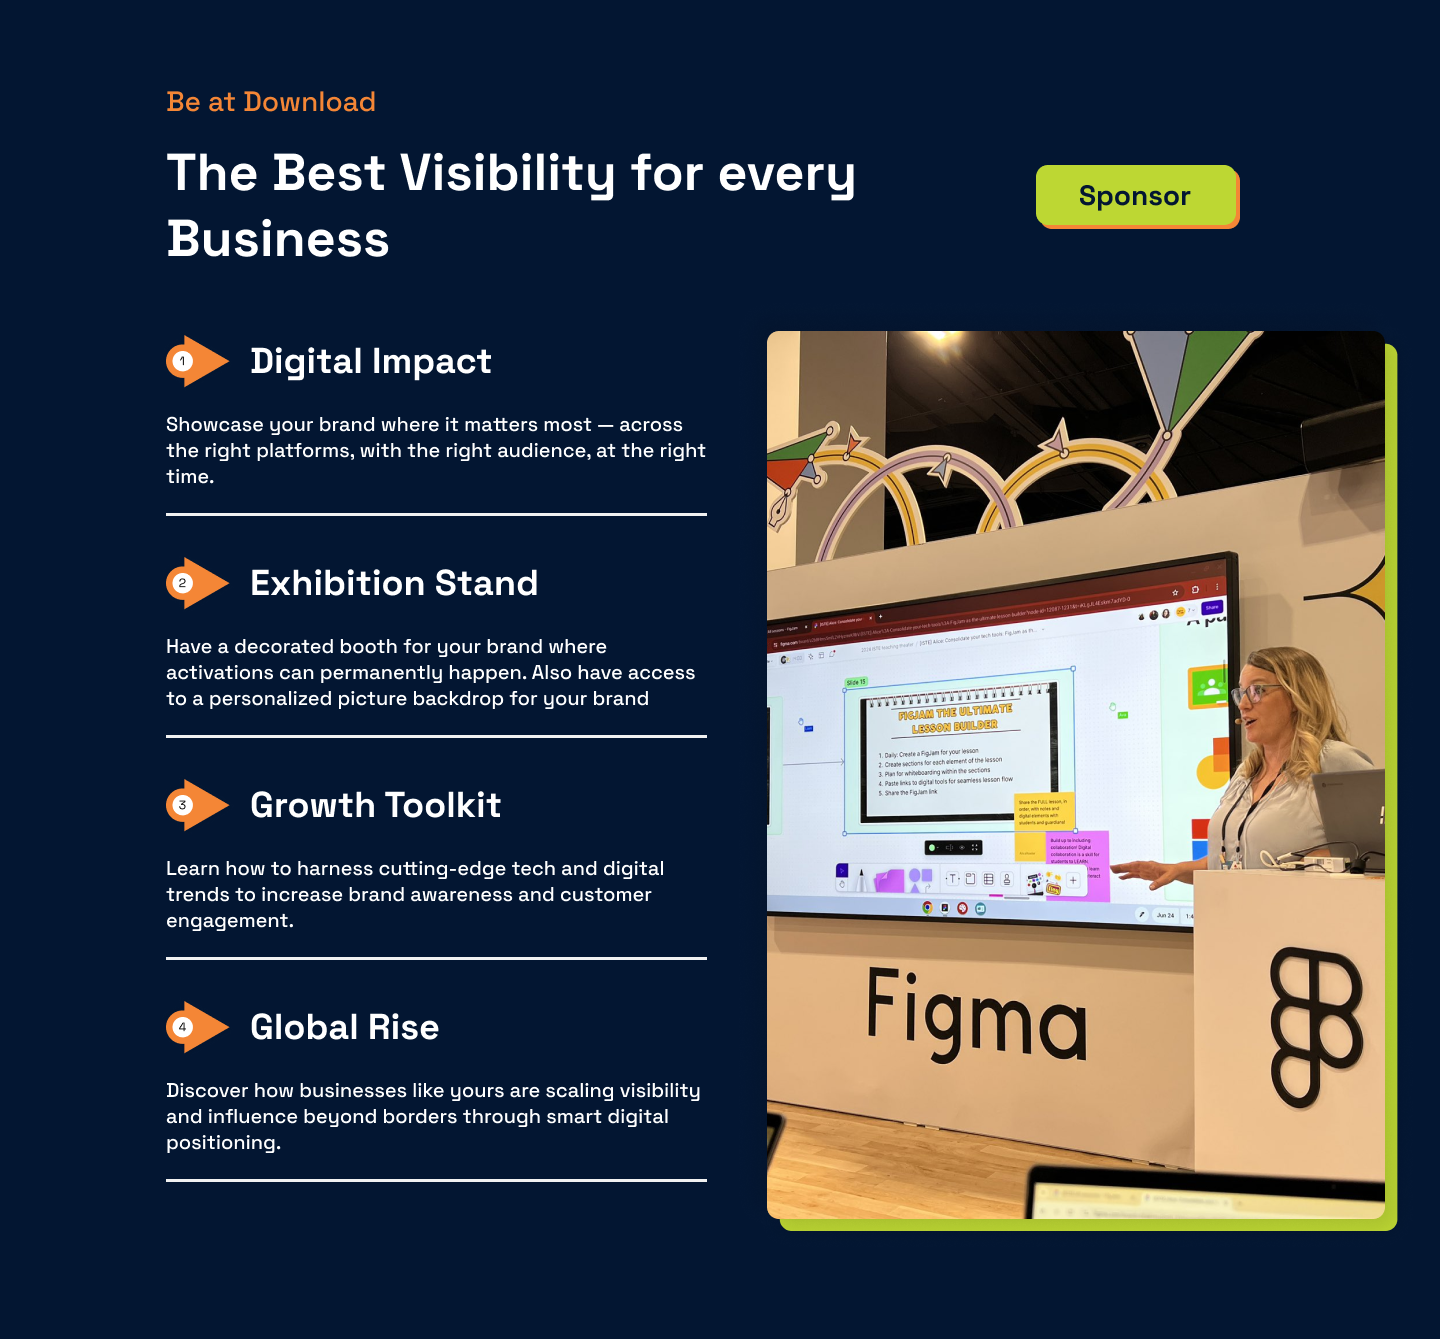
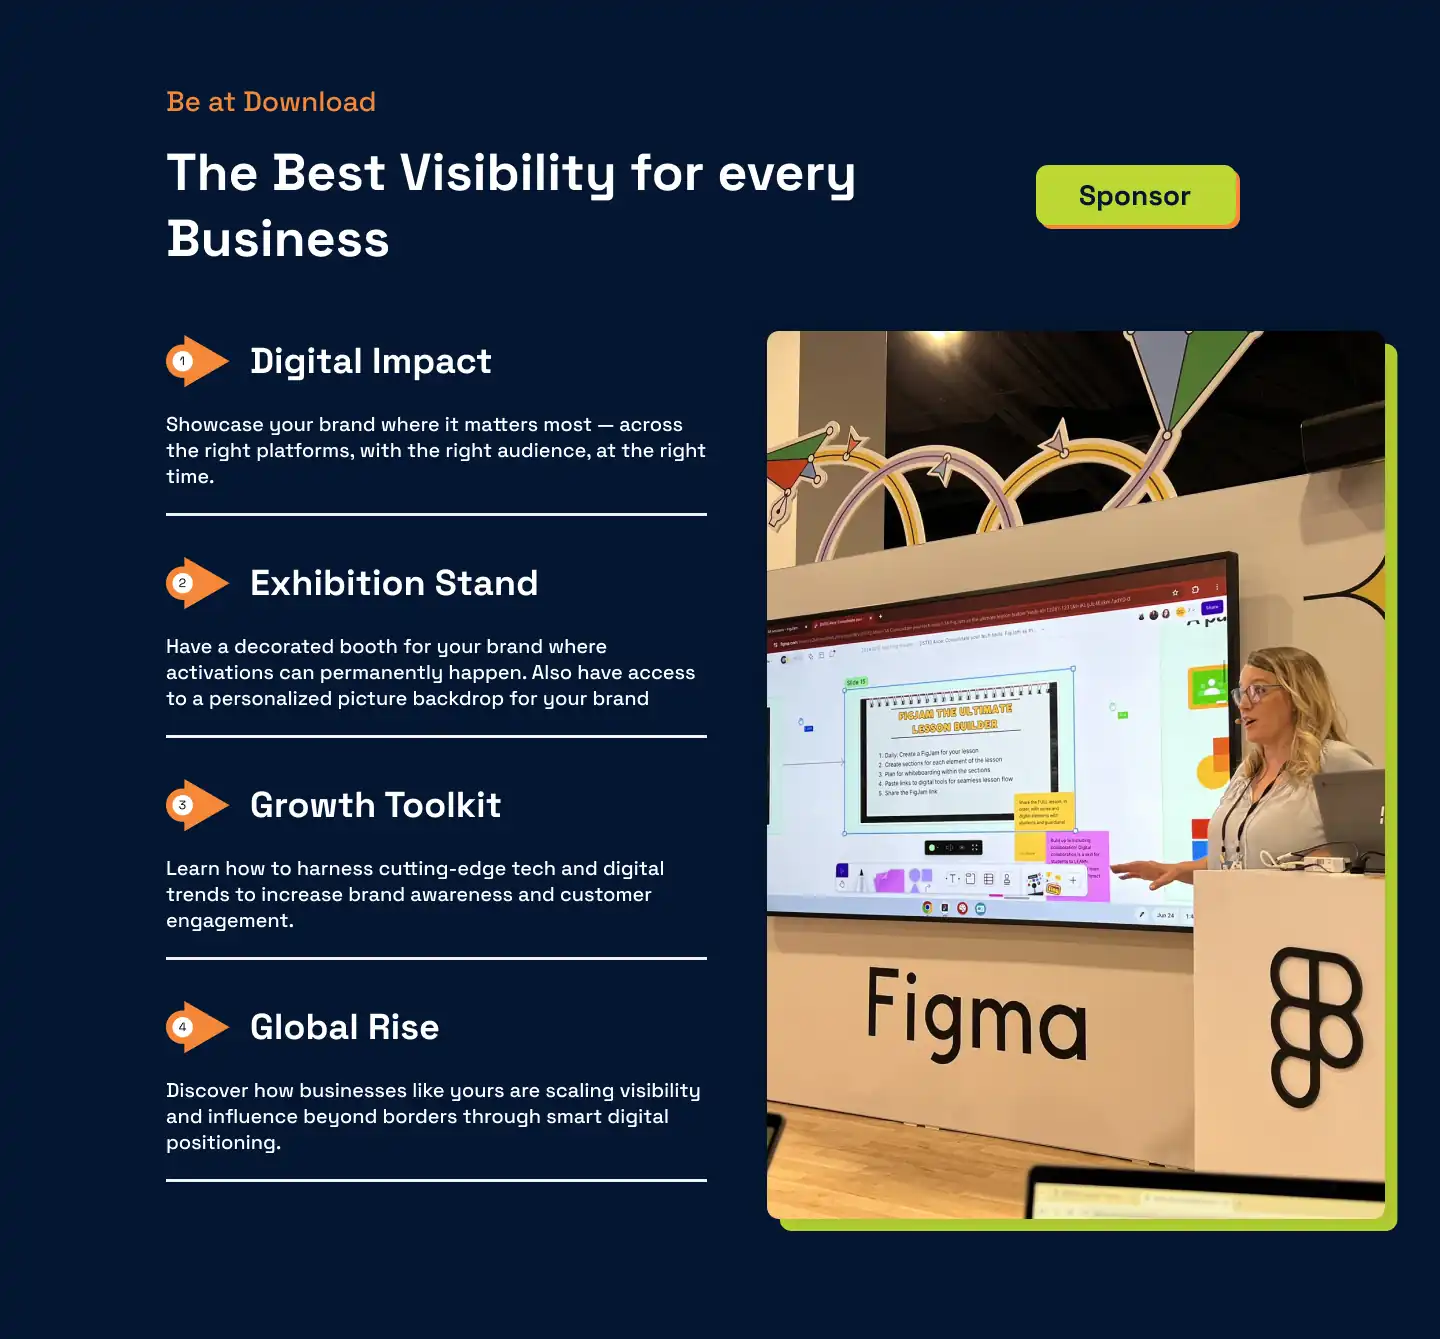
image size reduction

diff --git a/index.html b/index.html
@@ -2,7 +2,7 @@
 <html lang="en">
   <head>
     <meta charset="utf-8" />
-    <title>Anima Project - Automatically generated by Anima</title>
+    <title>Download event</title>
     <meta name="viewport" content="width=device-width, initial-scale=1" />
     <meta charset="utf-8" />
     <meta content="width=device-width, initial-scale=1" name="viewport" />
@@ -11,6 +11,7 @@
     </style>
     <link href="tailwind.css" rel="stylesheet" />
     <link href="tailwind.css" rel="stylesheet" />
+    <link rel="shortcut icon" href="/favicon.png" type="image/x-icon">
   </head>
   <body>
     <div id="app"></div>

diff --git a/public/images.py b/public/images.py
@@ -1,0 +1,67 @@
+import os
+import subprocess
+from concurrent.futures import ThreadPoolExecutor, as_completed
+from typing import List
+
+ROOT_DIR = os.path.dirname(os.path.abspath(__file__))
+OUTPUT_DIR = os.path.join(ROOT_DIR, "public")
+MAX_RETRIES = 3
+WEBP_QUALITY = "50"
+COMPRESSION_LEVEL = "6"
+IMAGE_EXTENSIONS = [".webp", ".jpg", ".jpeg", ".png"]
+
+os.makedirs(OUTPUT_DIR, exist_ok=True)
+
+
+def get_image_paths(root: str) -> List[str]:
+    image_paths = []
+    for dirpath, _, filenames in os.walk(root):
+        for filename in filenames:
+            if filename.lower().endswith(tuple(IMAGE_EXTENSIONS)):
+                full_path = os.path.relpath(os.path.join(dirpath, filename), root)
+                image_paths.append(full_path.replace("\\", "/"))
+    return image_paths
+
+def compress_webp(image_rel_path: str) -> None:
+    input_path = os.path.join(ROOT_DIR, image_rel_path)
+    output_rel_path = os.path.splitext(image_rel_path)[0] + ".png"
+    output_path = os.path.join(OUTPUT_DIR, output_rel_path)
+
+    # Preserve folder structure
+    os.makedirs(os.path.dirname(output_path), exist_ok=True)
+
+    cmd = [
+        "ffmpeg",
+        "-y",  # Overwrite without prompt
+        "-i", input_path,
+        "-vcodec", "libwebp",
+        "-lossless", "0",  # lossy compression
+        "-q:v", WEBP_QUALITY,
+        "-compression_level", COMPRESSION_LEVEL,
+        output_path
+    ]
+
+    for attempt in range(1, MAX_RETRIES + 1):
+        try:
+            subprocess.run(cmd, check=True, stdout=subprocess.DEVNULL, stderr=subprocess.DEVNULL)
+            return
+        except subprocess.CalledProcessError as e:
+            if attempt == MAX_RETRIES:
+                with open("failed_to_convert.txt", "a") as f:
+                    f.write(f"Failed after {MAX_RETRIES} tries: {input_path}\n")
+                return
+
+def main():
+    image_paths = get_image_paths(ROOT_DIR)
+    if not image_paths:
+        print("No WebP images found.")
+        return
+
+    max_workers = min(4, os.cpu_count() or 2)
+    with ThreadPoolExecutor(max_workers=max_workers) as executor:
+        futures = [executor.submit(compress_webp, path) for path in image_paths]
+        for future in as_completed(futures):
+            future.result()
+
+if __name__ == "__main__":
+    main()
